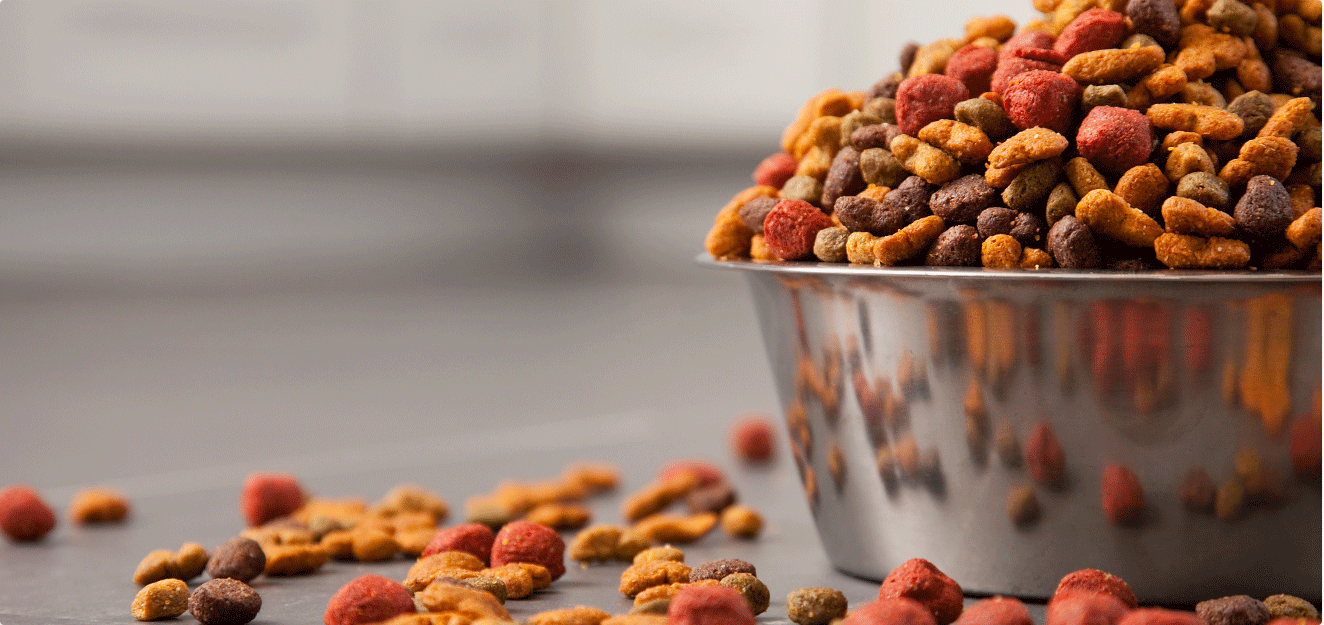
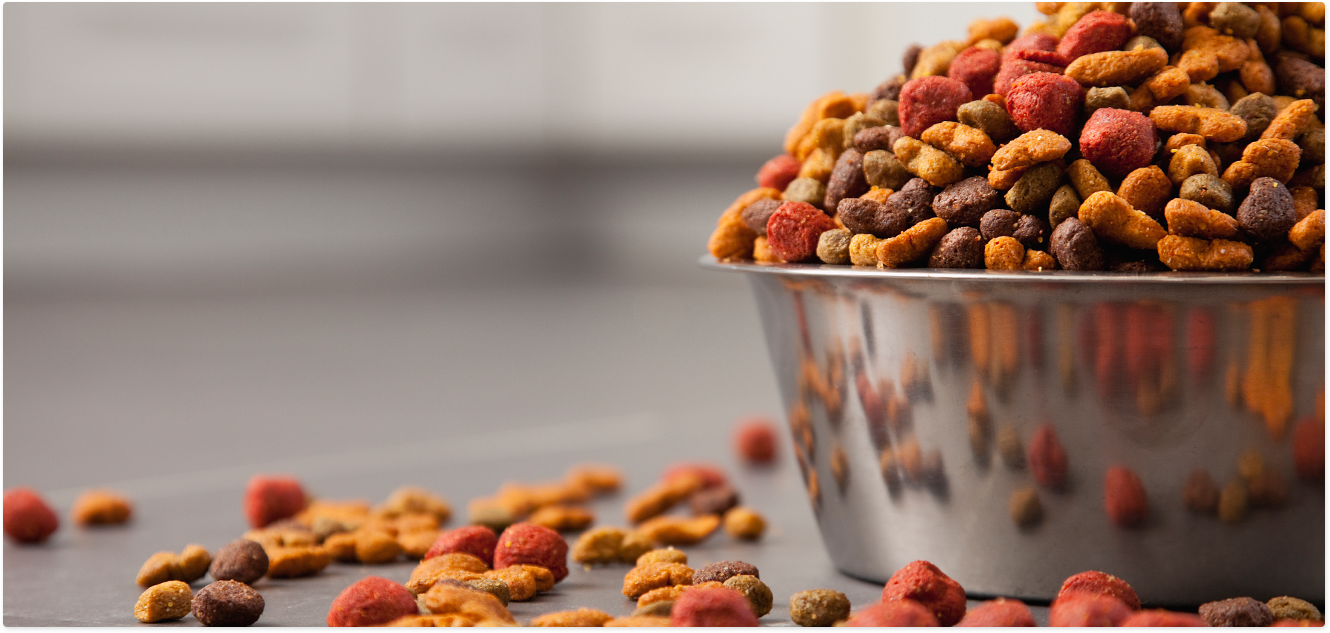
retina support images

diff --git a/index.html b/index.html
@@ -363,7 +363,7 @@
     <div class="categories-banner scroll-container">
         <div class="container">
             <div class="img-content pull-left category-index">
-                <img src="images/category-01.jpg" class="img-responsive" alt="Dog"/>
+                <img src="images/category-01.png" class="img-responsive" alt="Dog"/>
 
                 <div class="category-content">
                     <div class="visible-xs heading-mobile">
@@ -414,7 +414,7 @@
     <div class="container products-header">
         <div class="pull-left">
             <h3 class="product-heading">
-                <img src="images/firefly.png" height="50px" width="35px">
+                <img src="images/firefly.png" height="60px" width="35px">
                 Hot Deals
             </h3>
         </div>
@@ -444,7 +444,7 @@
                             <p class="bg-blue">USA</p>
                         </div>
                         <a href="#">
-                            <img class="center-block" src="images/promotion.jpg" alt="product name">
+                            <img class="center-block" src="images/promotion.png" alt="product name">
 
                         </a>
 
@@ -472,7 +472,7 @@
 
                         </div>
                         <a href="#">
-                            <img class="center-block" src="images/promotion.jpg" alt="product name">
+                            <img class="center-block" src="images/promotion.png" alt="product name">
                         </a>
 
                         <div class="caption">
@@ -499,7 +499,7 @@
 
                         </div>
                         <a href="#">
-                            <img class="center-block" src="images/promotion.jpg" alt="product name">
+                            <img class="center-block" src="images/promotion.png" alt="product name">
                         </a>
 
                         <div class="caption">
@@ -526,7 +526,7 @@
 
                         </div>
                         <a href="#">
-                            <img class="center-block" src="images/promotion.jpg" alt="product name">
+                            <img class="center-block" src="images/promotion.png" alt="product name">
                         </a>
 
                         <div class="caption">
@@ -585,7 +585,7 @@
 
                             <p class="bg-blue">USA</p>
                         </div>
-                        <img class="center-block" src="images/promotion.jpg" alt="product name">
+                        <img class="center-block" src="images/promotion.png" alt="product name">
 
                         <div class="caption">
                             <a class="fa fa-heart-o pull-left icon-heart" aria-hidden="true"></a>
@@ -610,7 +610,7 @@
                             <p class="bg-purple">NEW</p>
 
                         </div>
-                        <img class="center-block" src="images/promotion.jpg" alt="product name">
+                        <img class="center-block" src="images/promotion.png" alt="product name">
 
                         <div class="caption">
                             <a class="fa fa-heart-o pull-left icon-heart" aria-hidden="true"></a>
@@ -635,7 +635,7 @@
                             <p class="bg-purple">NEW</p>
 
                         </div>
-                        <img class="center-block" src="images/promotion.jpg" alt="product name">
+                        <img class="center-block" src="images/promotion.png" alt="product name">
 
                         <div class="caption">
                             <a class="fa fa-heart-o pull-left icon-heart" aria-hidden="true"></a>
@@ -660,7 +660,7 @@
                             <p class="bg-purple">NEW</p>
 
                         </div>
-                        <img class="center-block" src="images/promotion.jpg" alt="product name">
+                        <img class="center-block" src="images/promotion.png" alt="product name">
 
                         <div class="caption">
                             <a class="fa fa-heart-o pull-left icon-heart" aria-hidden="true"></a>

diff --git a/categories.html b/categories.html
@@ -1,3 +1,4 @@
+<!DOCTYPE html>
 <html>
 <head>
     <meta charset="utf-8">
@@ -333,12 +334,12 @@
     </div>
 </section>
 <!-- /breadcrumbs -->
-
-<section id="common-banner">
-    <div class="common-banner">
-        <h1 class="banner-heading text-uppercase text-large">dog food</h1>
+<section id="page-banner">
+    <div class="page-banner">
+        <p class="banner-heading text-large">Dry Food</p>
     </div>
 </section>
+
 
 <section id="categories-home">
     <div class="container categories-home-header">
@@ -663,7 +664,7 @@
                                 <p class="bg-blue">USA</p>
                             </div>
                             <a href="#">
-                                <img class="center-block" src="images/promotion.jpg" alt="product name">
+                                <img class="center-block" src="images/promotion.png" alt="product name">
 
                             </a>
 
@@ -691,7 +692,7 @@
 
                             </div>
                             <a href="#">
-                                <img class="center-block" src="images/promotion.jpg" alt="product name">
+                                <img class="center-block" src="images/promotion.png" alt="product name">
 
                             </a>
 
@@ -719,7 +720,7 @@
 
                             </div>
                             <a href="#">
-                                <img class="center-block" src="images/promotion.jpg" alt="product name">
+                                <img class="center-block" src="images/promotion.png" alt="product name">
 
                             </a>
 
@@ -747,7 +748,7 @@
 
                             </div>
                             <a href="#">
-                                <img class="center-block" src="images/promotion.jpg" alt="product name">
+                                <img class="center-block" src="images/promotion.png" alt="product name">
 
                             </a>
 
@@ -775,7 +776,7 @@
 
                             </div>
                             <a href="#">
-                                <img class="center-block" src="images/promotion.jpg" alt="product name">
+                                <img class="center-block" src="images/promotion.png" alt="product name">
 
                             </a>
 
@@ -803,7 +804,7 @@
 
                             </div>
                             <a href="#">
-                                <img class="center-block" src="images/promotion.jpg" alt="product name">
+                                <img class="center-block" src="images/promotion.png" alt="product name">
 
                             </a>
 
@@ -831,7 +832,7 @@
 
                             </div>
                             <a href="#">
-                                <img class="center-block" src="images/promotion.jpg" alt="product name">
+                                <img class="center-block" src="images/promotion.png" alt="product name">
 
                             </a>
 
@@ -859,7 +860,7 @@
 
                             </div>
                             <a href="#">
-                                <img class="center-block" src="images/promotion.jpg" alt="product name">
+                                <img class="center-block" src="images/promotion.png" alt="product name">
 
                             </a>
 
@@ -887,7 +888,7 @@
 
                             </div>
                             <a href="#">
-                                <img class="center-block" src="images/promotion.jpg" alt="product name">
+                                <img class="center-block" src="images/promotion.png" alt="product name">
 
                             </a>
 

diff --git a/css/main.css b/css/main.css
@@ -7,7 +7,6 @@
 body {
     background-color: #ffffff;
     font-family: Effra !important;
-    max-width: 1920px;
     color: #231f1f !important;
     margin: 0 auto;
     font-size: 16px;
@@ -168,20 +167,19 @@ header {
 /*
 * Common banner
 */
-.common-banner {
+.page-banner {
     background-image: url("../images/common-banner.png");
     background-position: center center;
     background-size: cover;
     width: 100%;
     height: 400px;
-    margin-top: -20px;
 }
 
-.common-banner .banner-heading {
+.page-banner .banner-heading {
     color: #FFFFFF;
     text-align: center;
     position: relative;
-    top: 45%;
+    top: 30%;
 }
 
 /*

diff --git a/css/responsive.css b/css/responsive.css
@@ -720,6 +720,9 @@
         text-decoration: none !important;
         padding-right: 10px;
     }
+    .products-header .view-all {
+        margin-right: -12px;
+    }
 
     #promotions {
         padding-top: 90px;
